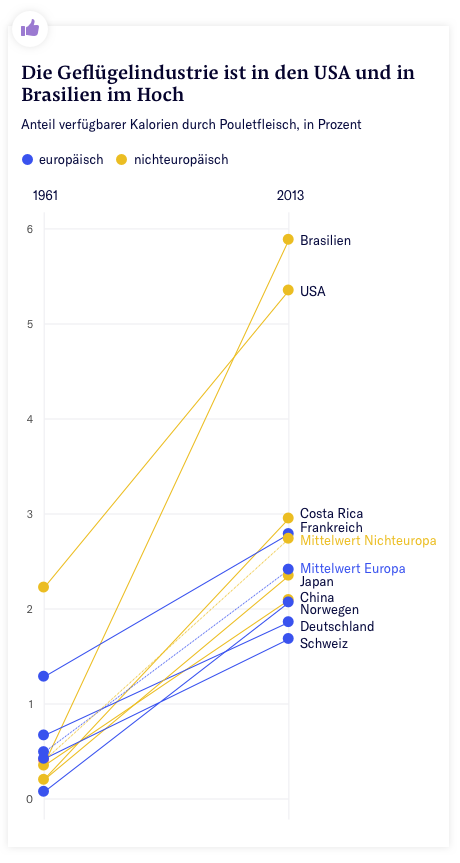
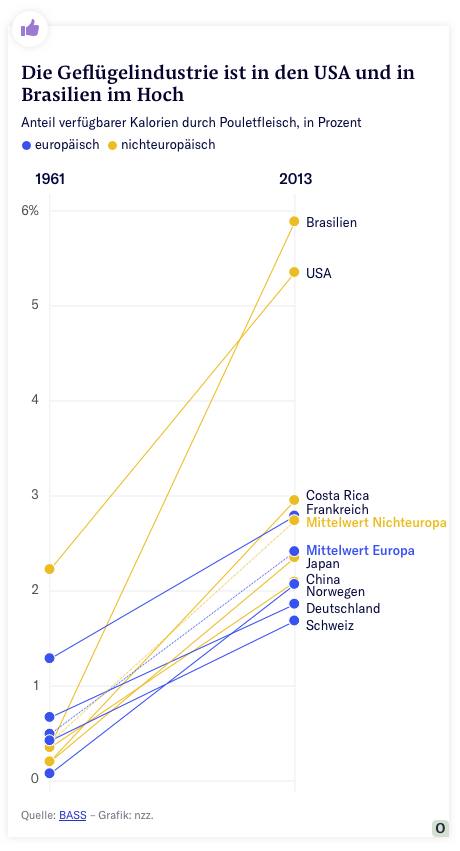
Add print slope example

diff --git a/pages/style/scatter-slope.md b/pages/style/scatter-slope.md
@@ -37,3 +37,9 @@ plain: true
 span: 2
 src: "assets/scatter-slopes/slopes@1x.png 1x, assets/scatter-slopes/slopes@2x.png 2x"
 ```
+
+```image
+plain: true
+span: 4
+src: "assets/scatter-slopes/slopes-print@1x.png 1x, assets/scatter-slopes/slopes-print@2x.png 2x"
+```
